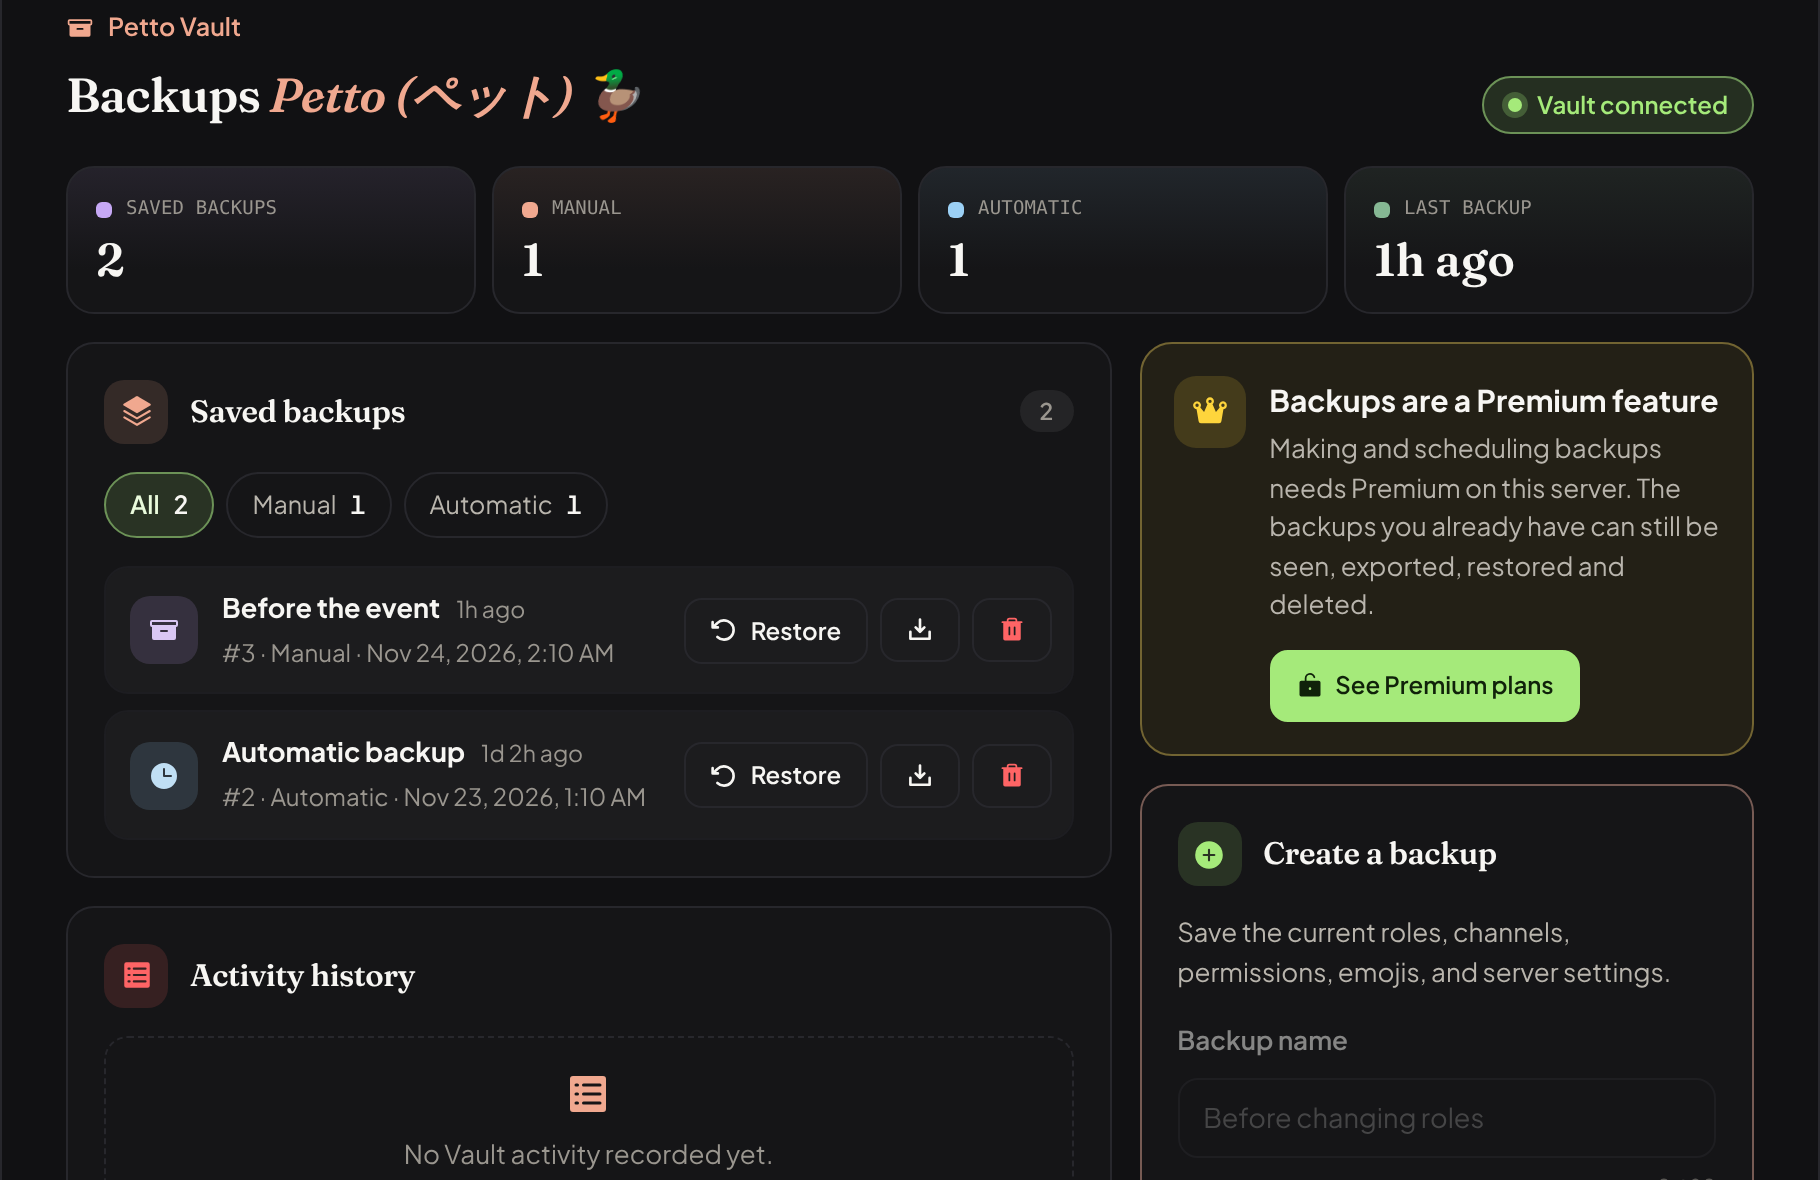
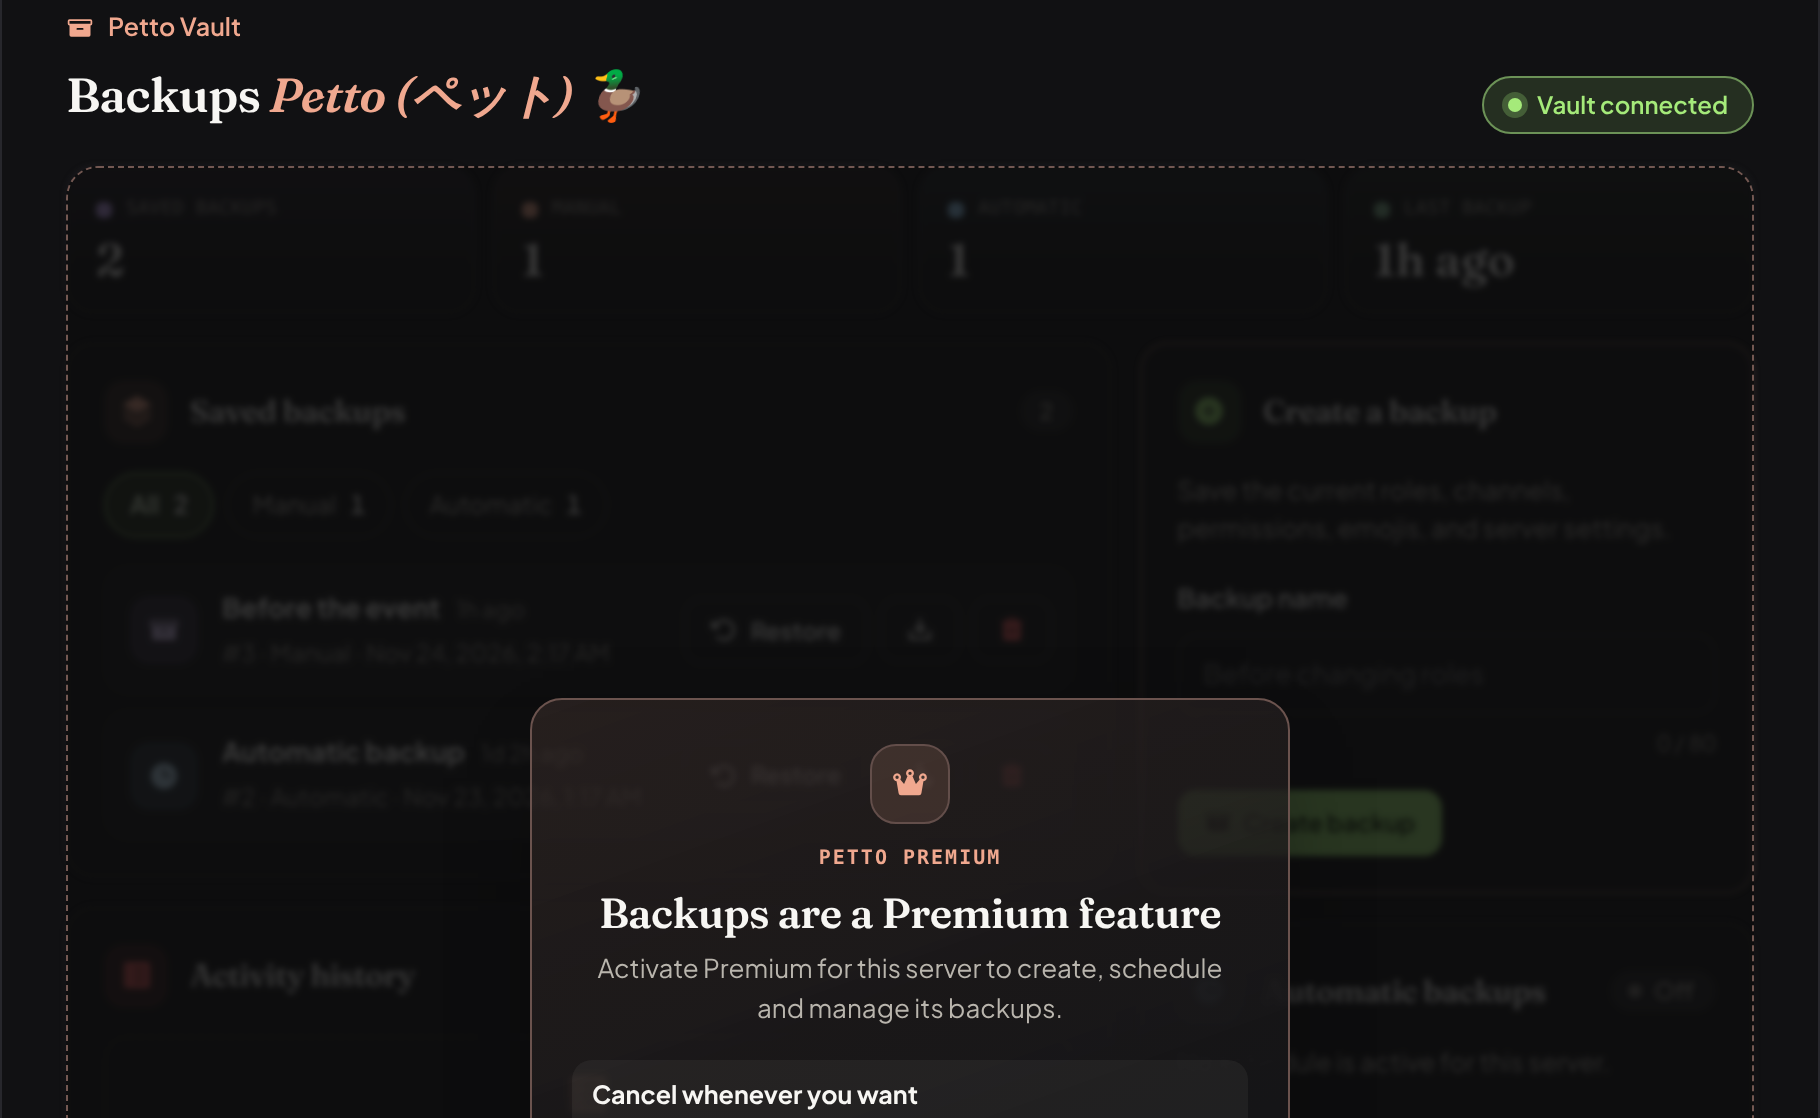
Backups page: locked behind the Premium notice without Premium

diff --git a/src/i18n/dash-es.ts b/src/i18n/dash-es.ts
@@ -7389,6 +7389,6 @@ export const dashEs: Record<string, string> = {
   "There is no room: a server can have {n} rewards.": "No hay espacio: un servidor puede tener {n} recompensas.",
   "Petto's role has to be above the role it gives. The members keep the role when a streak ends.": "El rol de Petto tiene que estar por encima del rol que da. Los miembros conservan el rol cuando una racha termina.",
   "Backups are a Premium feature": "Los backups son una función Premium",
-  "Making and scheduling backups needs Premium on this server. The backups you already have can still be seen, exported, restored and deleted.": "Crear y programar backups necesita Premium en este servidor. Los backups que ya tienes se pueden seguir viendo, exportando, restaurando y borrando.",
   "Making and scheduling backups needs Premium on this server.": "Crear y programar backups necesita Premium en este servidor.",
+  "Activate Premium for this server to create, schedule and manage its backups.": "Activa Premium en este servidor para crear, programar y gestionar sus backups.",
 };

diff --git a/src/i18n/dash-pt.ts b/src/i18n/dash-pt.ts
@@ -7389,6 +7389,6 @@ export const dashPt: Record<string, string> = {
   "There is no room: a server can have {n} rewards.": "Não há espaço: um servidor pode ter {n} recompensas.",
   "Petto's role has to be above the role it gives. The members keep the role when a streak ends.": "O cargo do Petto precisa estar acima do cargo que ele dá. Os membros mantêm o cargo quando uma sequência termina.",
   "Backups are a Premium feature": "Os backups são um recurso Premium",
-  "Making and scheduling backups needs Premium on this server. The backups you already have can still be seen, exported, restored and deleted.": "Criar e agendar backups precisa de Premium neste servidor. Os backups que você já tem ainda podem ser vistos, exportados, restaurados e apagados.",
   "Making and scheduling backups needs Premium on this server.": "Criar e agendar backups precisa de Premium neste servidor.",
+  "Activate Premium for this server to create, schedule and manage its backups.": "Ative o Premium neste servidor para criar, agendar e gerenciar os backups dele.",
 };
